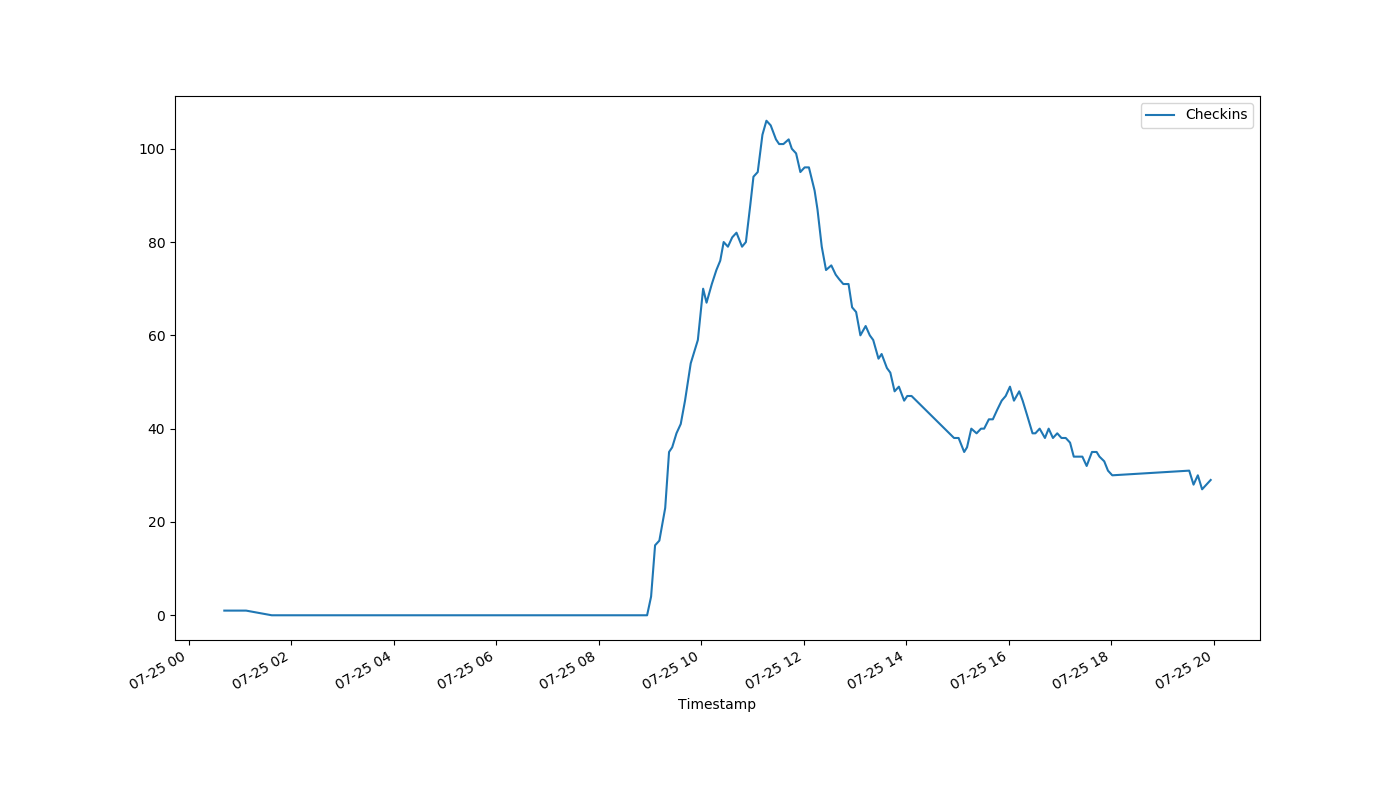
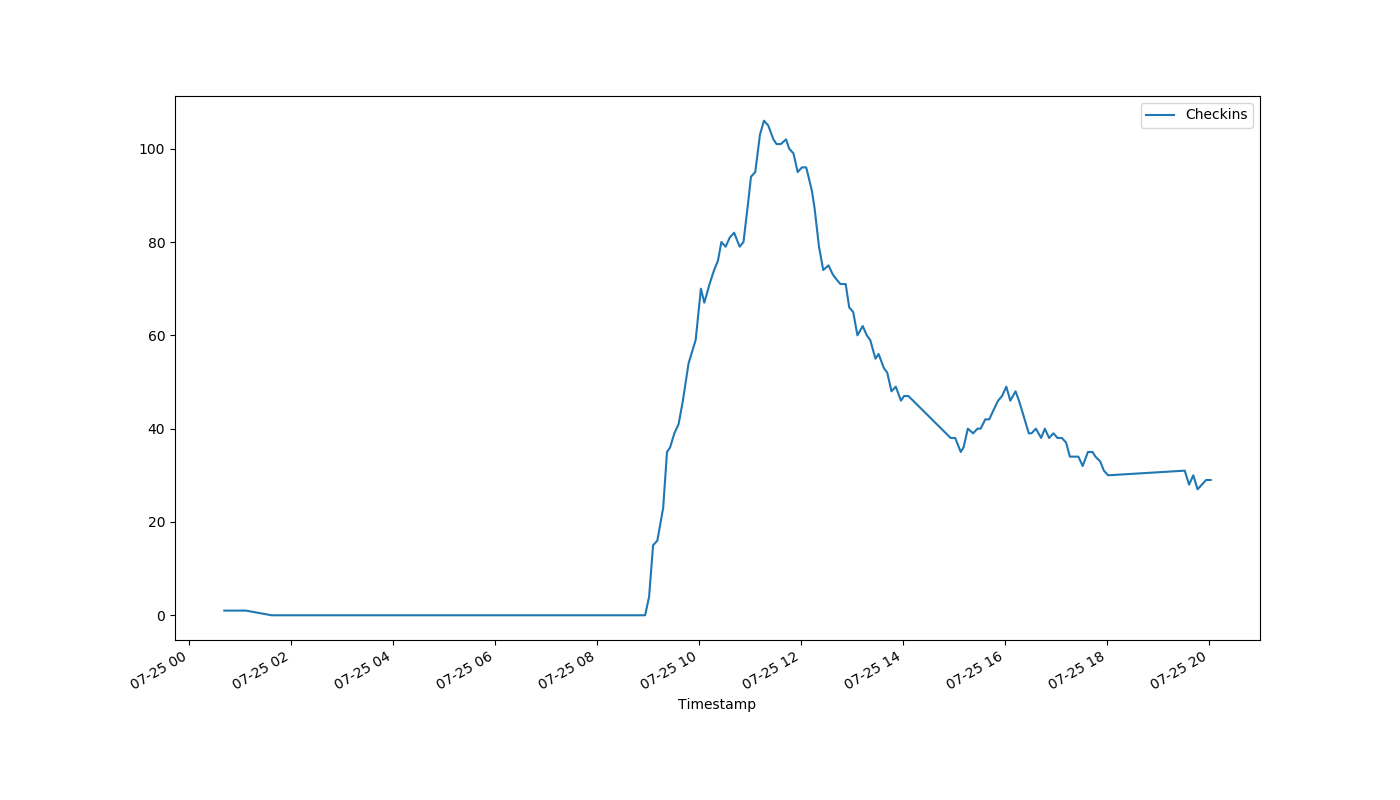
auto-Jul-25-20:02:58

diff --git a/index.html b/index.html
@@ -1,1 +1,1 @@
-<!DOCTYPE html><html><head><meta http-equiv="refresh" content="30"><link rel='stylesheet' href='holmcurrent.css'></head><body><p id='count'>29</p><div id='graph-wrap'><img id='graph' src='holmgraph-Jul-25.png'></div><p id='updated'>Last updated 19:57:06 / 19:56:14</p></body></html>
+<!DOCTYPE html><html><head><meta http-equiv="refresh" content="30"><link rel='stylesheet' href='holmcurrent.css'></head><body><p id='count'>29</p><div id='graph-wrap'><img id='graph' src='holmgraph-Jul-25.png'></div><p id='updated'>Last updated 20:02:06 / 20:01:36</p></body></html>
